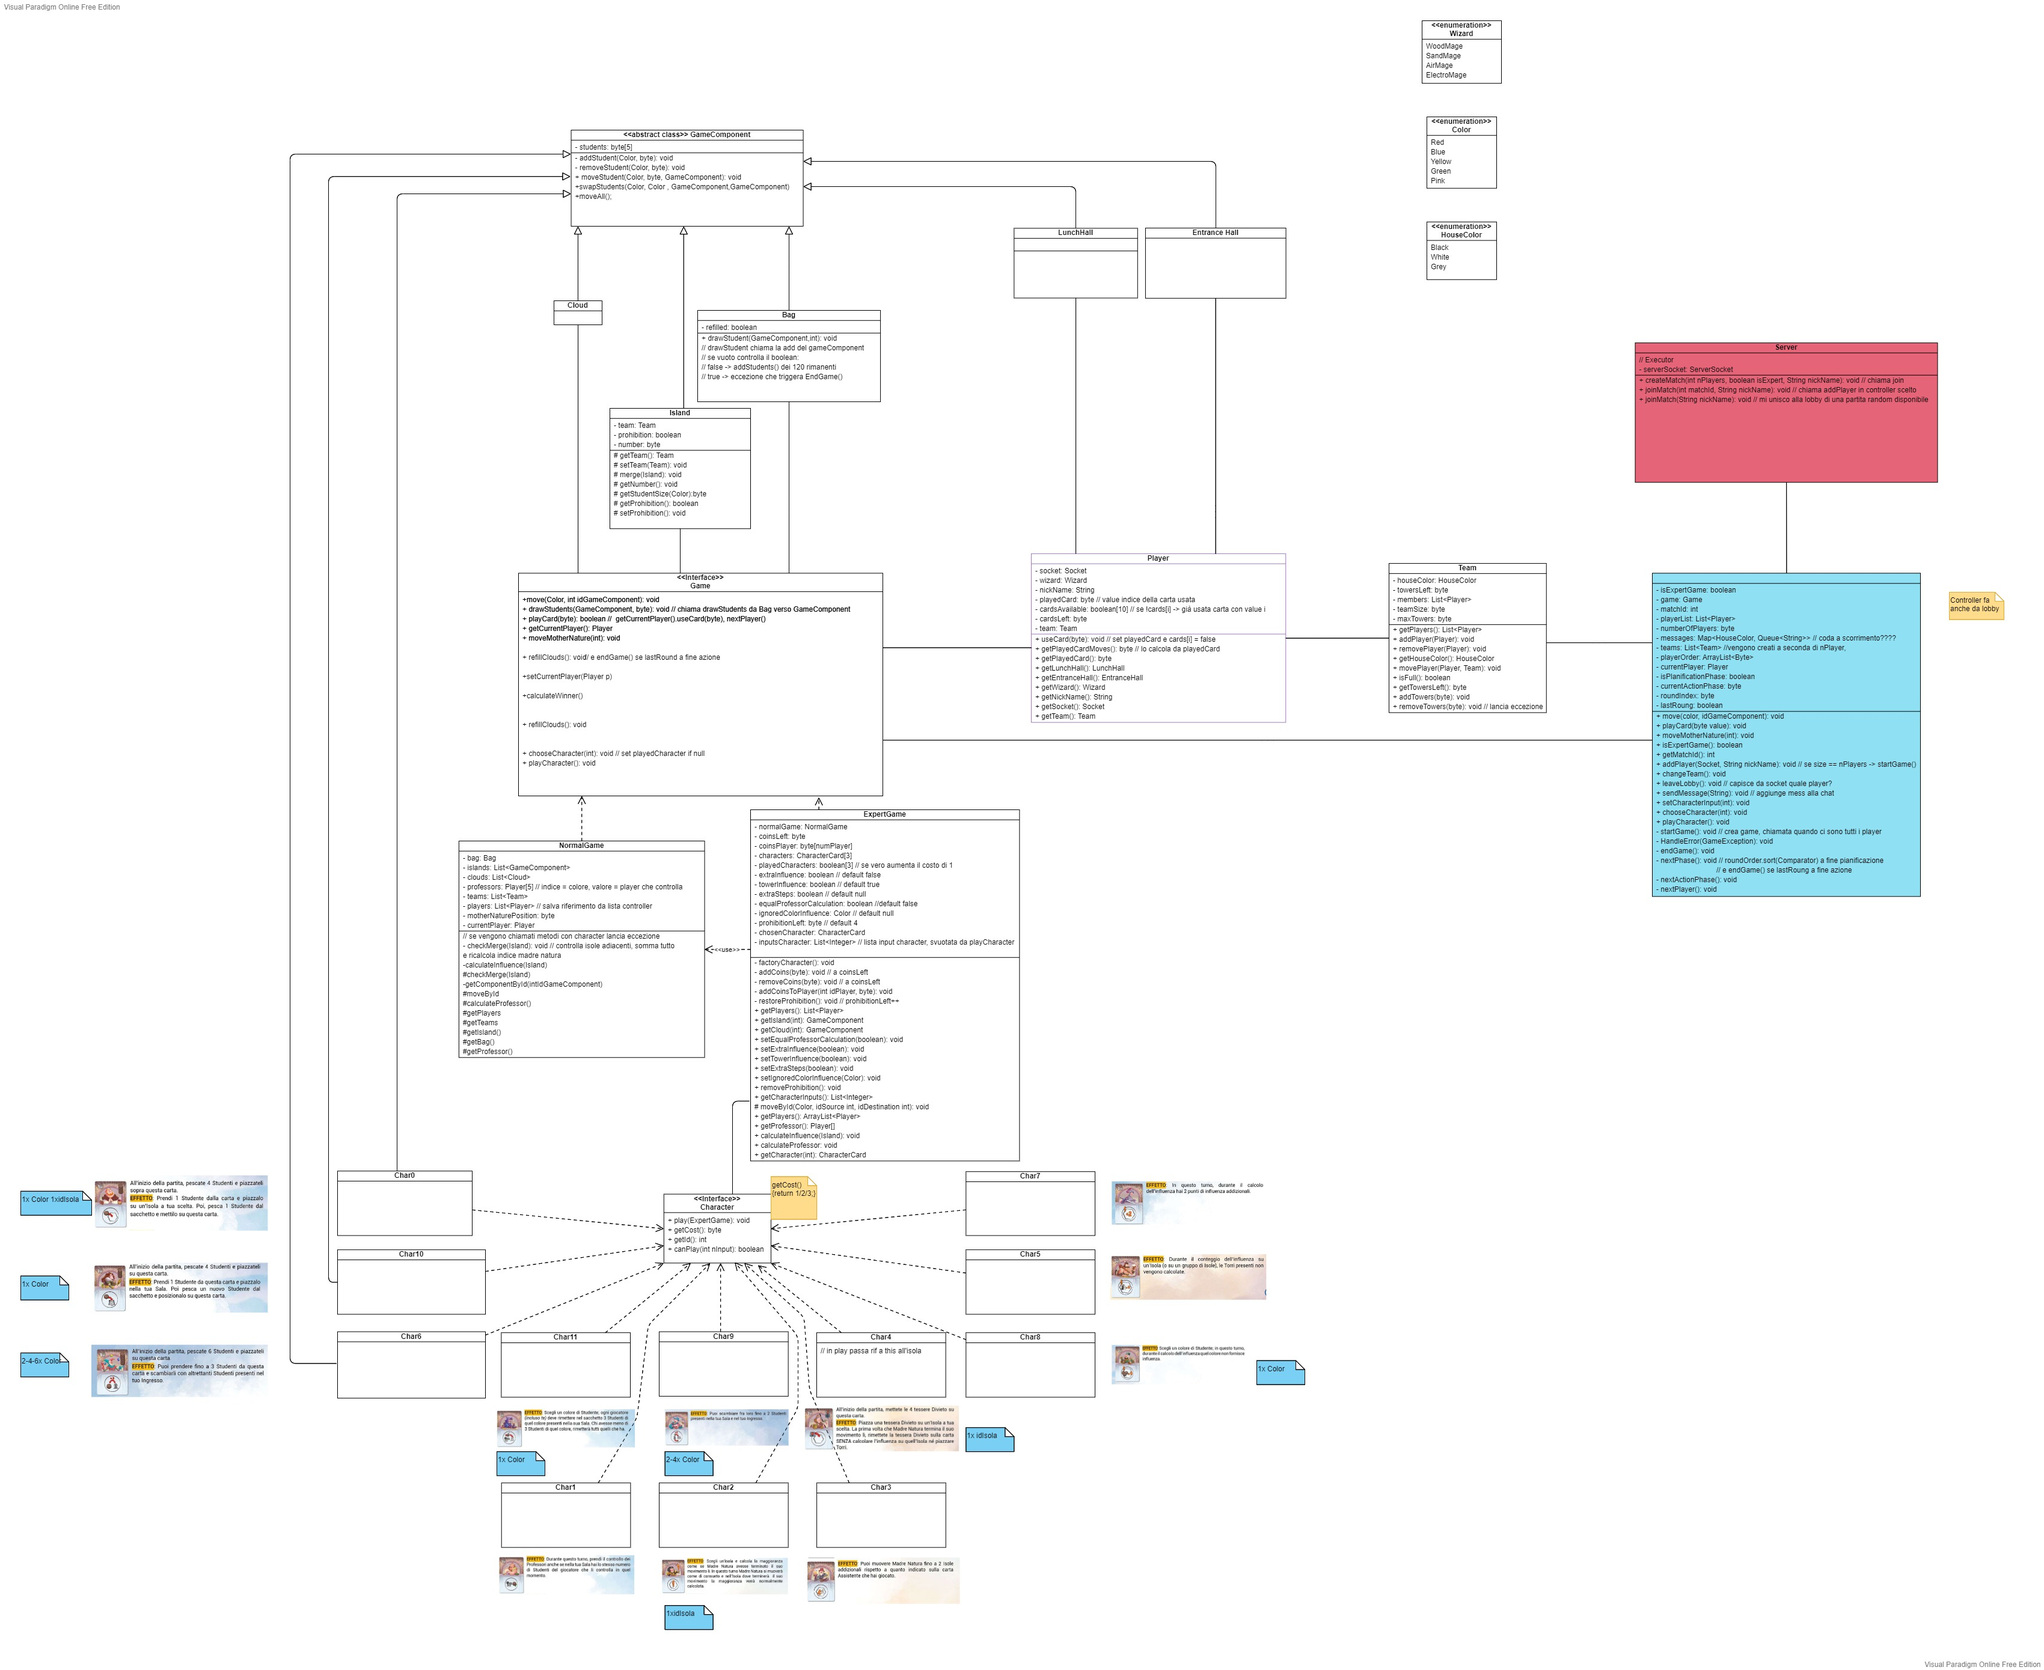
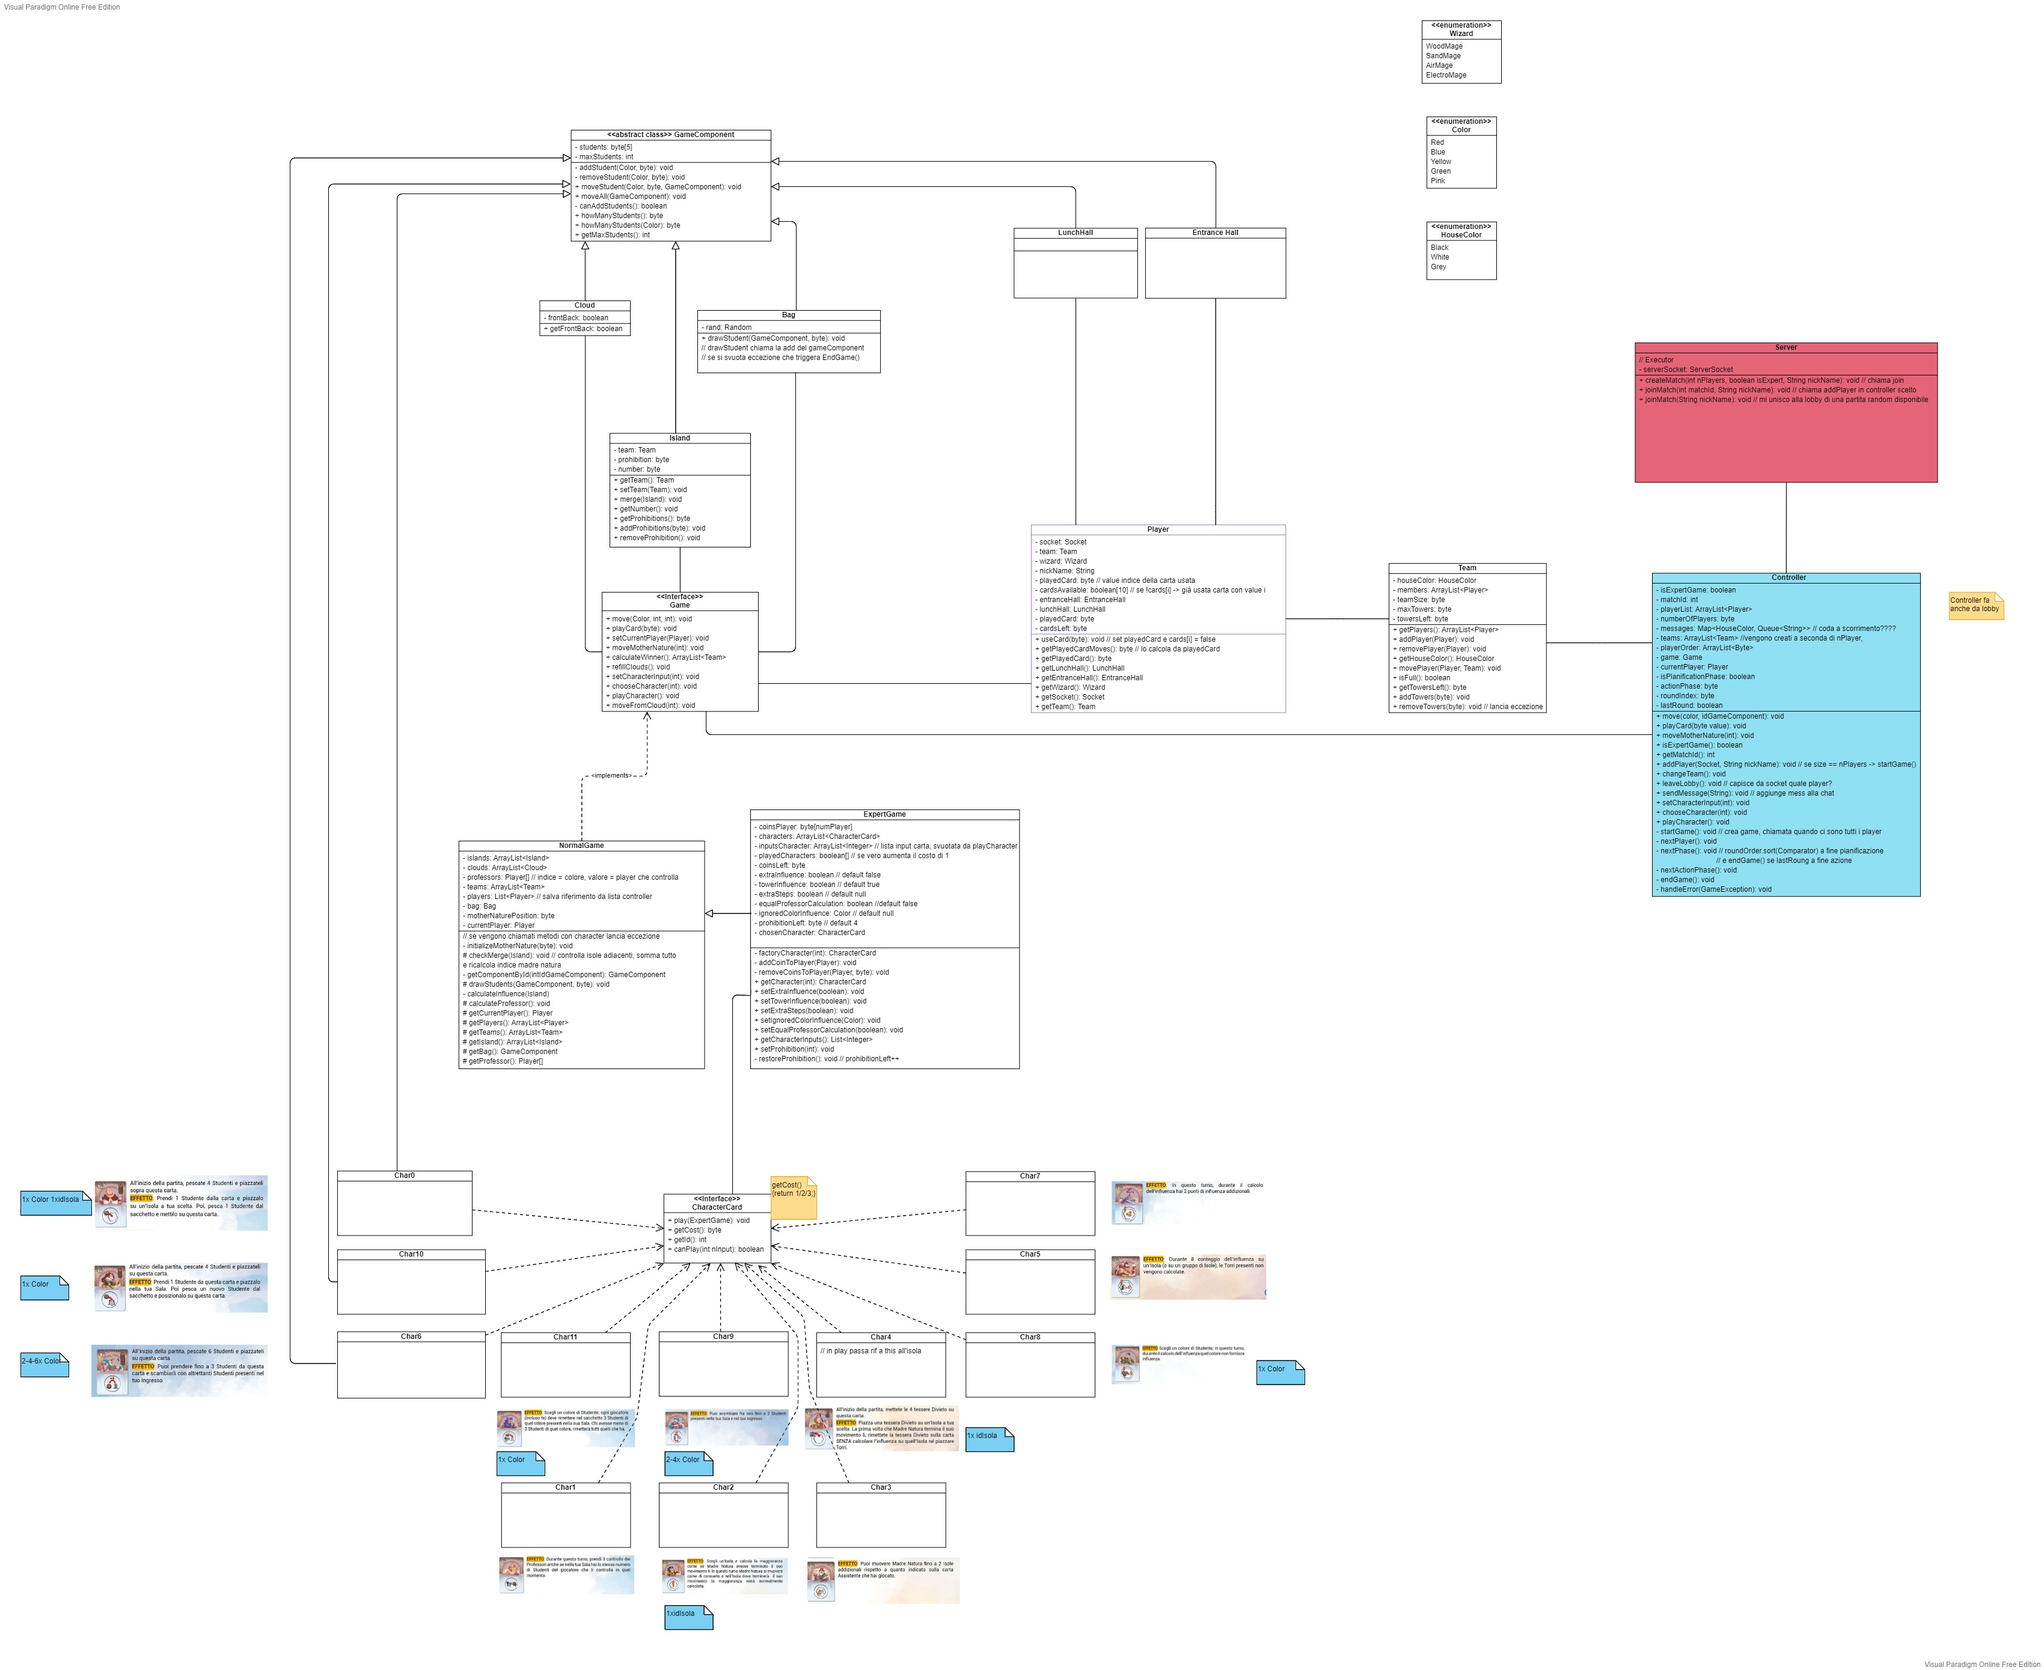
Updated Uml, removing coin from game and setting character card as used when played, fixed moveStudents to LunchHall

diff --git a/src/main/java/it/polimi/ingsw/model/ExpertGame.java b/src/main/java/it/polimi/ingsw/model/ExpertGame.java
@@ -38,7 +38,7 @@ public class ExpertGame extends NormalGame {
                 characterIndex = rand.nextInt(12);
             }
             try {
-                c = factoryMethod(characterIndex);
+                c = factoryCharacter(characterIndex);
                 characters.add(c);
                 selectedCharacters.add(c.getId());
                 i++;
@@ -58,7 +58,7 @@ public class ExpertGame extends NormalGame {
         this.inputsCharacter = null;
     }
 
-    private CharacterCard factoryMethod(int i) throws UnexpectedValueException {
+    private CharacterCard factoryCharacter(int i) throws UnexpectedValueException {
         switch (i) {
             case 0:
                 Char0 c0 = new Char0();
@@ -116,7 +116,7 @@ public class ExpertGame extends NormalGame {
 
     //calculate expertInfluence(it checks all the boolean) and then calls checkMerge
 
-    public void calculateInfluence(Island island) throws EndGameException {
+    protected void calculateInfluence(Island island) throws EndGameException {
         //prohibition is handled by prohibitionsLeft
         if (island.getProhibitions() > 0) {
             island.removeProhibition();
@@ -182,7 +182,7 @@ public class ExpertGame extends NormalGame {
         super.moveMotherNature(moves);
     }
 
-    public void calculateProfessor() {
+    protected void calculateProfessor() {
         byte max;
         Player currentOwner;
         // player with the maximum number of students for the current color
@@ -211,15 +211,24 @@ public class ExpertGame extends NormalGame {
 
     private void addCoinToPlayer(Player player) throws NotEnoughCoinsException {
         if (coinsLeft == 0) throw new NotEnoughCoinsException();
-        else {
+        else if (player != null) {
             coinsPlayer[getPlayers().indexOf(player)]++;
             coinsLeft--;
-        }
+        } else System.err.println("Can't add coin to null player");
 
     }
 
-    private void addCoins(byte coins) {
-        this.coinsLeft += coins;
+    private void removeCoinsToPlayer(Player player, byte coins) throws GameException {
+        if (coins <= 0) throw new UnexpectedValueException();
+        if (player != null) {
+            // player's wizard is its index inside the list
+            int playerIndex = getCurrentPlayer().getWizard().ordinal();
+            if (coinsPlayer[playerIndex] >= coins) {
+                coinsPlayer[playerIndex] -= coins;
+                // add coins to player
+                coinsLeft += coins;
+            } else throw new NotEnoughCoinsException();
+        } else System.err.println("Can't remove coins to null player");
     }
 
     @Override
@@ -230,10 +239,14 @@ public class ExpertGame extends NormalGame {
             byte charCost = chosenCharacter.getCost();
             // this character card has already been used, increase its cost
             if (playedCharacters[characters.indexOf(chosenCharacter)]) charCost++;
+            else {
+                playedCharacters[characters.indexOf(chosenCharacter)] = true;
+                // a coin is left on the character card to remember it has been used
+                coinsLeft--;
+            }
             // remove coins to player
-            coinsPlayer[getCurrentPlayer().getWizard().ordinal()] -= charCost;
-            // add coins to game
-            addCoins(charCost);
+            removeCoinsToPlayer(getCurrentPlayer(), charCost);
+
             chosenCharacter = null;
             inputsCharacter.clear();
         } else throw new UnexpectedValueException(); // canPlay returned false, needs a different amount of inputs
@@ -282,7 +295,7 @@ public class ExpertGame extends NormalGame {
     public void setEqualProfessorCalculation(boolean equalProfessorCalculation) {
         this.equalProfessorCalculation = equalProfessorCalculation;
     }
-
+    // TODO by copy?
     public ArrayList<Integer> getCharacterInputs() {
         return inputsCharacter;
     }

diff --git a/src/main/java/it/polimi/ingsw/controller/Controller.java b/src/main/java/it/polimi/ingsw/controller/Controller.java
@@ -51,7 +51,7 @@ public class Controller {
 
     public void move(Color color, int idGameComponent) {
         if (isPlanificationPhase) {
-            HandleError(new NotAllowedException("Not in action phase"));
+            handleError(new NotAllowedException("Not in action phase"));
             return;
         }
         try {
@@ -65,20 +65,20 @@ public class Controller {
                 throw new NotAllowedException("Wrong Phase");
             }
         } catch (GameException e) {
-            HandleError(e);
+            handleError(e);
         }
         nextActionPhase();
     }
 
     public void playCard(byte value) {
         if (!isPlanificationPhase) {
-            HandleError(new NotAllowedException("Not in planification phase"));
+            handleError(new NotAllowedException("Not in planification phase"));
             return;
         }
         try {
             game.playCard(value);
         } catch (GameException e) {
-            HandleError(e);
+            handleError(e);
         } catch (EndGameException e) {
             if (e.isEndInstantly()) endGame();
             else lastRound = true;
@@ -88,13 +88,13 @@ public class Controller {
 
     public void moveMotherNature(int i) {
         if (isPlanificationPhase || actionPhase != 2) {
-            HandleError(new NotAllowedException("Not allowed in this phase"));
+            handleError(new NotAllowedException("Not allowed in this phase"));
             return;
         }
         try {
             game.moveMotherNature(i);
         } catch (NotAllowedException e) {
-            HandleError(e);
+            handleError(e);
         } catch (EndGameException e) {
             if (e.isEndInstantly()) endGame();
             else lastRound = true;
@@ -137,37 +137,37 @@ public class Controller {
 
     public void setCharacterInput(int input) {
         if (isPlanificationPhase) {
-            HandleError(new NotAllowedException("Not in action phase"));
+            handleError(new NotAllowedException("Not in action phase"));
             return;
         }
         try {
             game.setCharacterInput(input);
         } catch (GameException e) {
-            HandleError(e);
+            handleError(e);
         }
     }
 
     public void chooseCharacter(int character) {
         if (isPlanificationPhase) {
-            HandleError(new NotAllowedException("Not in action phase"));
+            handleError(new NotAllowedException("Not in action phase"));
             return;
         }
         try {
             game.chooseCharacter(character);
         } catch (GameException e) {
-            HandleError(e);
+            handleError(e);
         }
     }
 
     public void playCharacter() {
         if (isPlanificationPhase) {
-            HandleError(new NotAllowedException("Not in action phase"));
+            handleError(new NotAllowedException("Not in action phase"));
             return;
         }
         try {
             game.playCharacter();
         } catch (GameException e) {
-            HandleError(e);
+            handleError(e);
         } catch (EndGameException e) {
             if (e.isEndInstantly()) endGame();
             else lastRound = true;
@@ -243,7 +243,7 @@ public class Controller {
             System.out.println("Paolino tvb <3");
     }
 
-    private void HandleError(GameException e) {
+    private void handleError(GameException e) {
         e.printStackTrace();
         System.err.println(e.getErrorMessage());
     }

diff --git a/src/main/java/it/polimi/ingsw/model/NormalGame.java b/src/main/java/it/polimi/ingsw/model/NormalGame.java
@@ -3,7 +3,6 @@ package it.polimi.ingsw.model;
 import it.polimi.ingsw.exceptions.*;
 
 import java.util.ArrayList;
-import java.util.List;
 import java.util.Random;
 
 public class NormalGame implements Game {
@@ -111,7 +110,7 @@ public class NormalGame implements Game {
     public void move(Color color, int gameComponentSource, int gameComponentDestination) throws GameException {
         getComponentById(gameComponentSource).moveStudents(color, (byte) 1, getComponentById(gameComponentDestination));
         if (gameComponentDestination == 1)
-            calculateProfessor();
+            calculateProfessor(); //TODO check if calls the expertgame one from super.move() in expertgame
     }
 
     protected void drawStudents(GameComponent gameComponent, byte students) throws EndGameException {
@@ -125,11 +124,6 @@ public class NormalGame implements Game {
     @Override
     public void playCard(byte card) throws GameException, EndGameException {
         currentPlayer.useCard(card);
-    }
-
-    @Override
-    public void setCurrentPlayer(Player p) {
-        this.currentPlayer = p;
     }
 
     @Override
@@ -177,7 +171,6 @@ public class NormalGame implements Game {
             checkMerge(island);
         }
     }
-
 
     // compares for each color the lunchHall of each player and then puts the player with the most students
     // in the professor array slot of the current color
@@ -251,14 +244,17 @@ public class NormalGame implements Game {
         }
     }
 
+    @Override
     public void setCharacterInput(int input) throws GameException {
         throw new NotExpertGameException();
     }
 
+    @Override
     public void chooseCharacter(int index) throws GameException {
         throw new NotExpertGameException();
     }
 
+    @Override
     public void playCharacter() throws GameException, EndGameException {
         throw new NotExpertGameException();
     }
@@ -271,15 +267,24 @@ public class NormalGame implements Game {
         cloudSource.moveAll(currentPlayer.getEntranceHall());
     }
 
+    protected Player getCurrentPlayer() {
+        return this.currentPlayer;
+    }
+
     // TODO: pass by copy player, team etc..
 
-    protected Player getCurrentPlayer() { return this.currentPlayer; }
+    @Override
+    public void setCurrentPlayer(Player p) {
+        this.currentPlayer = p;
+    }
 
     protected ArrayList<Player> getPlayers() {
         return players;
     }
 
-    protected ArrayList<Team> getTeams() { return teams; }
+    protected ArrayList<Team> getTeams() {
+        return teams;
+    }
 
     protected ArrayList<Island> getIslands() {
         return islands;

diff --git a/src/main/java/it/polimi/ingsw/model/LunchHall.java b/src/main/java/it/polimi/ingsw/model/LunchHall.java
@@ -13,14 +13,7 @@ public class LunchHall extends GameComponent {
 
     @Override
     public void moveStudents(Color color, byte number, GameComponent destination) throws GameException {
-        boolean check = true;
-        for (Color c : Color.values()) {
-            if (howManyStudents(c) >= 10) {
-                check = false;
-                break; // :D
-            }
-        }
-        if (check) super.moveStudents(color, number, destination);
+        if (howManyStudents(color) < 10 - number) super.moveStudents(color, number, destination);
         else
             throw new NotAllowedException("Lunch hall can't have more than 10 " + color.name().toLowerCase() + " students");
     }

diff --git a/src/main/java/it/polimi/ingsw/model/Team.java b/src/main/java/it/polimi/ingsw/model/Team.java
@@ -21,6 +21,7 @@ public class Team {
         this.towersLeft = maxTowers;
     }
 
+    // TODO by value?
     public ArrayList<Player> getPlayers() {
         return this.members;
     }
@@ -64,7 +65,6 @@ public class Team {
     public void addTowers(byte b) throws NotAllowedException {
         if (b < 0) System.err.println("Cannot add negative towers");
         else if (b > 0) {
-
             if (towersLeft + b > maxTowers) throw new NotAllowedException("Max towers exceeded");
             towersLeft += b;
         }

diff --git a/src/main/java/it/polimi/ingsw/model/Player.java b/src/main/java/it/polimi/ingsw/model/Player.java
@@ -52,10 +52,11 @@ public class Player implements Comparator<Player> {
         return playedCard;
     }
 
+    // TODO by value?
     public LunchHall getLunchHall() {
         return lunchHall;
     }
-
+    // TODO by value?
     public EntranceHall getEntranceHall() {
         return entranceHall;
     }
@@ -67,7 +68,7 @@ public class Player implements Comparator<Player> {
     public Socket getSocket() {
         return socket;
     }
-
+    // TODO by value?
     public Team getTeam() {
         return team;
     }

diff --git a/src/main/java/it/polimi/ingsw/model/GameComponent.java b/src/main/java/it/polimi/ingsw/model/GameComponent.java
@@ -66,12 +66,14 @@ public abstract class GameComponent {
         return howManyStudents() < maxStudents;
     }
 
+    // returns the number of students with color c
     public byte howManyStudents(Color c) {
         return students[c.ordinal()];
     }
 
-    public int howManyStudents() {
-        int sum = 0;
+    // returns the global number of students
+    public byte howManyStudents() {
+        byte sum = 0;
         for (Color c : Color.values()) {
             sum += students[c.ordinal()];
         }

diff --git a/src/main/java/it/polimi/ingsw/model/Island.java b/src/main/java/it/polimi/ingsw/model/Island.java
@@ -13,7 +13,7 @@ public class Island extends GameComponent {
         prohibition = 0;
         number = 1;
     }
-
+    // TODO by copy?
     public Team getTeam() {
         return team;
     }

diff --git a/src/main/java/it/polimi/ingsw/model/Wizard.java b/src/main/java/it/polimi/ingsw/model/Wizard.java
@@ -1,5 +1,5 @@
 package it.polimi.ingsw.model;
 
 public enum Wizard {
-    WOODMAGE, SANDMAGE,AIRMAGE, ELECTROMAGE
+    WOODMAGE, SANDMAGE, AIRMAGE, ELECTROMAGE
 }
